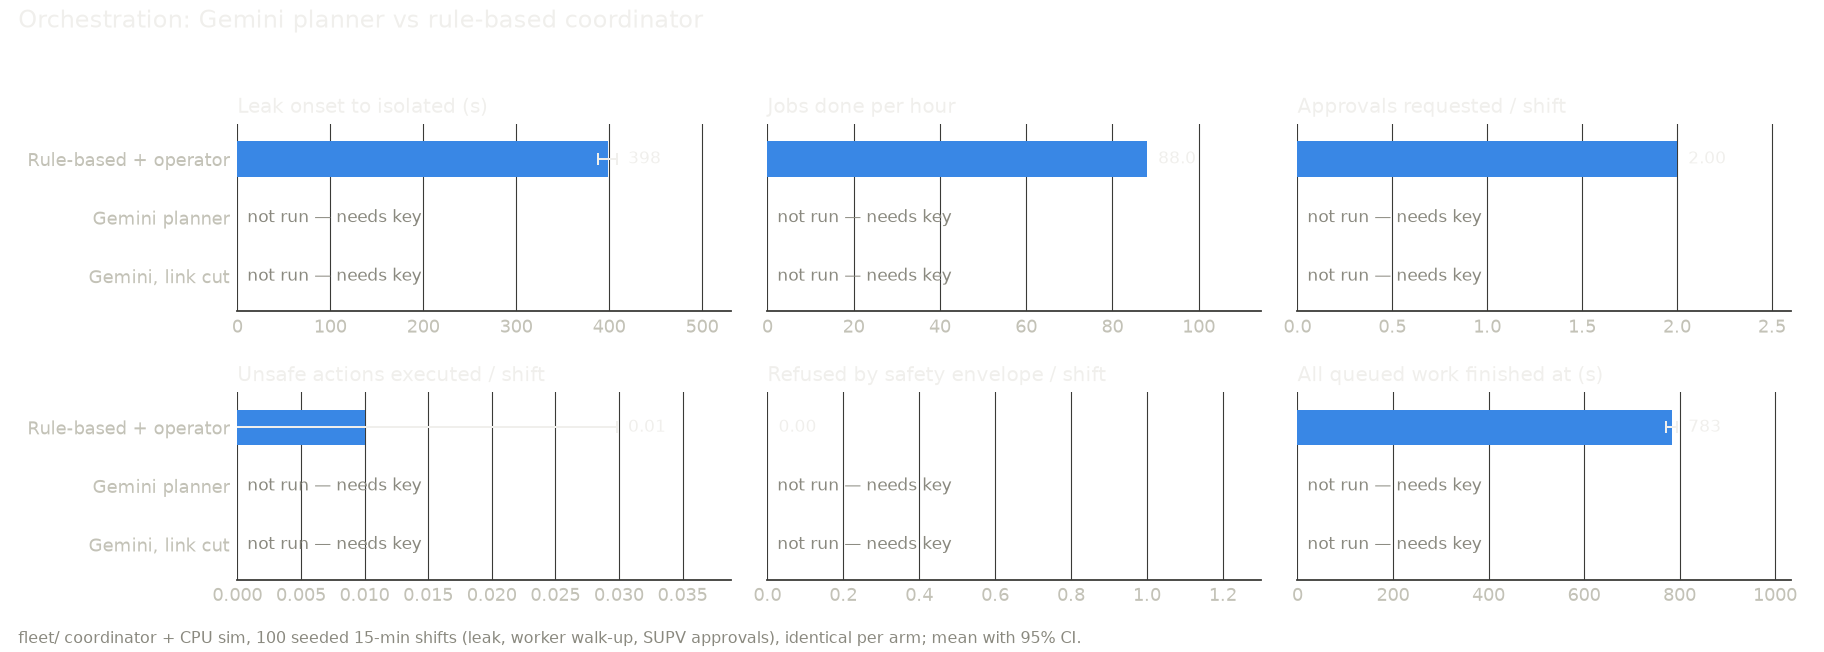
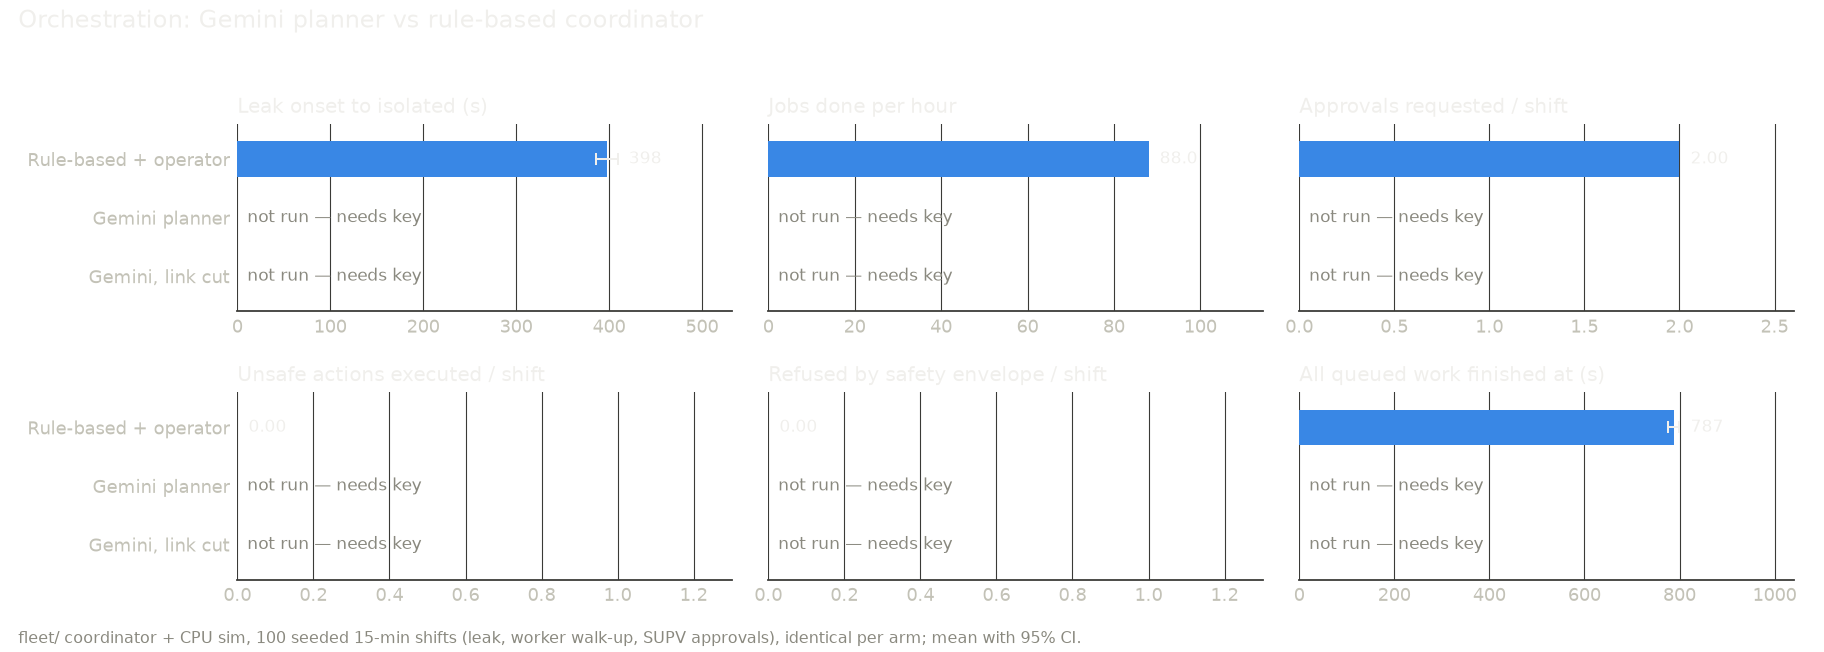
Person pause wins over dispatch: assignment, preemption and release keep a paused robot paused, robots never step into the 3 m radius, resume only past 4 m; orchestration bench rerun (100 shifts, 0 unsafe)

diff --git a/fleet/coordinator.py b/fleet/coordinator.py
@@ -12,6 +12,7 @@ from policy.fleet.assign import INF, assign as hungarian
 from policy.fleet.battery import POWER_W
 
 PERSON_RADIUS_M = 3.0
+PERSON_CLEAR_M = PERSON_RADIUS_M + 1.0
 RESERVE = 0.15
 IDLE_DOCK_BATTERY = 0.3
 RESUME_BATTERY = 0.9
@@ -465,7 +466,7 @@ class Coordinator:
         self.assigned_to[job.id] = rt.robot.id
         self.status[job.id] = JobStatus.ASSIGNED
         self._set_route(rt, self.planner.route(rt.robot, job.position, job.params.get("standoff", 1.0)))
-        rt.state = "MOVING"
+        self._go(rt, "MOVING")
         self.emit("assigned", job.id, rt.robot.id, cost_s=round(cost, 1),
                   bids={rid: round(c, 1) for c, rid in bids}, route_m=round(rt.route.length, 1))
 
@@ -481,7 +482,13 @@ class Coordinator:
                 self.emit("preempted" if "preempt" in why else "requeued", jid, rt.robot.id, reason=why)
         rt.job, rt.result, rt.route, rt.work_left = None, None, None, 0.0
         rt.robot.busy_with = None
-        rt.state = "IDLE"
+        self._go(rt, "IDLE")
+
+    def _go(self, rt: RobotRT, state: str):
+        if rt.state == "PAUSED_PERSON":
+            rt.paused_from = state
+        else:
+            rt.state = state
 
     def report(self, job: Job, robot: Optional[str] = None, event: str = "alarm", **detail) -> JobStatus:
         self.emit(event, job.id, robot, **detail)
@@ -545,12 +552,10 @@ class Coordinator:
         for rt in self.rt.values():
             if rt.state == "FAILED":
                 continue
-            near = [p for p in self.world.people if dist(p, rt.robot.position) < PERSON_RADIUS_M]
+            r_m = PERSON_CLEAR_M if rt.state == "PAUSED_PERSON" else PERSON_RADIUS_M
+            near = self._near(rt.robot.position, r_m)
             if near and rt.state != "PAUSED_PERSON":
-                rt.paused_from = rt.state
-                rt.state = "PAUSED_PERSON"
-                self.emit("person_pause", rt.job, rt.robot.id, distance_m=round(min(
-                    dist(p, rt.robot.position) for p in near), 2))
+                self._pause(rt, near)
             elif not near and rt.state == "PAUSED_PERSON":
                 rt.state = rt.paused_from or "IDLE"
                 self.emit("person_clear", rt.job, rt.robot.id, resume=rt.state)
@@ -565,6 +570,14 @@ class Coordinator:
                           reason="reserve needed to reach the dock" if low else "idle and low: charge while there is time")
                 self._release(rt, requeue=True, why="low battery: robot returns to dock")
                 self._go_dock(rt)
+
+    def _near(self, pos, r_m: float = PERSON_RADIUS_M) -> list:
+        return [p for p in self.world.people if dist(p, pos) < r_m]
+
+    def _pause(self, rt: RobotRT, near: list):
+        rt.paused_from = rt.state
+        rt.state = "PAUSED_PERSON"
+        self.emit("person_pause", rt.job, rt.robot.id, distance_m=round(min(dist(p, rt.robot.position) for p in near), 2))
 
     def _gas_zone(self):
         if not self.leaks():
@@ -583,7 +596,7 @@ class Coordinator:
 
     def _go_dock(self, rt: RobotRT):
         self._set_route(rt, self.planner.route(rt.robot, rt.dock, 0.0))
-        rt.state = "DOCKING"
+        self._go(rt, "DOCKING")
 
     def may_enter(self, rt: RobotRT, segment: str) -> bool:
         if rt.robot.kind != RobotKind.QUADRUPED:
@@ -611,7 +624,14 @@ class Coordinator:
             self._drain(rt, p.idle_w * dt / 3600.0)
             return
         if rt.state in ("MOVING", "WAITING_SEGMENT", "DOCKING"):
+            saved = (r.position, rt.yaw, rt.leg_i, rt.leg_s, rt.holding)
             arrived, wh, moved = self._move(rt, dt)
+            near = self._near(r.position) if moved else []
+            if near:
+                r.position, rt.yaw, rt.leg_i, rt.leg_s, rt.holding = saved
+                self._pause(rt, near)
+                self._drain(rt, p.idle_w * dt / 3600.0)
+                return
             self._drain(rt, wh)
             rt.dist_m += moved
             if rt.state == "WAITING_SEGMENT":

diff --git a/tests/test_fleet_coordinator.py b/tests/test_fleet_coordinator.py
@@ -204,6 +204,68 @@ def test_person_within_radius_pauses_robot():
     assert events(c, "person_pause") and events(c, "person_clear")
 
 
+def _paused(jobs=("j",)):
+    world = World()
+    q = Robot("q1", Q, {"camera"}, (0, 0, 0), speed_mps=1.0)
+    c = Coordinator([q], world, {"look": Exec("look", duration=5)})
+    c.submit(job("j", pos=(20, 0, 0), priority=4, params={"standoff": 0.0}))
+    run(c, 5)
+    world.people = [(q.position[0] + PERSON_RADIUS_M - 0.5, 0, 0)]
+    c.tick()
+    assert c.rt["q1"].state == "PAUSED_PERSON"
+    return c, q, world
+
+
+def test_urgent_preemption_never_moves_a_robot_paused_for_a_person():
+    c, q, world = _paused()
+    held = q.position
+    c.submit(job("urgent", target="b", pos=(-20, 0, 0), priority=1, params={"standoff": 0.0}))
+    run(c, 10)
+    assert c.rt["q1"].state == "PAUSED_PERSON" and q.position == held
+    assert c.rt["q1"].job == "urgent"
+    world.people = []
+    run(c, 60)
+    assert c.status["urgent"] == JobStatus.DONE
+
+
+def test_released_job_while_paused_keeps_robot_paused():
+    c, q, world = _paused()
+    held = q.position
+    c.cancel("j", by="operator", reason="test")
+    assert c.rt["q1"].state == "PAUSED_PERSON"
+    c.submit(job("next", target="b", pos=(-20, 0, 0), params={"standoff": 0.0}))
+    c.assign()
+    assert c.rt["q1"].state == "PAUSED_PERSON"
+    run(c, 10)
+    assert c.rt["q1"].state == "PAUSED_PERSON" and q.position == held
+    world.people = []
+    run(c, 60)
+    assert c.status["next"] == JobStatus.DONE
+
+
+def test_person_at_the_edge_of_the_radius_does_not_release_the_pause():
+    c, q, world = _paused()
+    held = q.position
+    world.people = [(q.position[0] + PERSON_RADIUS_M + 0.2, 0, 0)]
+    run(c, 5)
+    assert c.rt["q1"].state == "PAUSED_PERSON" and q.position == held
+    world.people = [(q.position[0] + PERSON_RADIUS_M + 1.5, 0, 0)]
+    c.tick()
+    assert c.rt["q1"].state != "PAUSED_PERSON"
+
+
+def test_robot_never_steps_into_the_person_radius():
+    world = World()
+    q = Robot("q1", Q, {"camera"}, (0, 0, 0), speed_mps=1.5)
+    c = Coordinator([q], world, {"look": Exec("look", duration=5)})
+    c.submit(job("j", pos=(30, 0, 0), params={"standoff": 0.0}))
+    for k in range(30):
+        world.people = [(min(4.2 + 1.2 * k, 12.0), 0.0, 0.0)]
+        c.tick()
+        assert math.dist(q.position, world.people[0]) >= PERSON_RADIUS_M
+    assert events(c, "person_pause")
+
+
 def test_low_battery_docks_and_requeues():
     q = Robot("q1", Q, {"camera"}, (0, 0, 0), battery=0.95)
     c = Coordinator([q], World(), {"look": Exec("look", duration=500)}, docks={"q1": (0, 0, 0)})

diff --git a/tests/test_bench_orch.py b/tests/test_bench_orch.py
@@ -91,3 +91,8 @@ def test_summary_marks_missing_key_arm():
     assert s["arms"]["planner"]["status"] == "not run — needs key"
     assert s["arms"]["rule"]["leak_isolate_s"]["mean"] == pytest.approx(100.0)
     assert s["arms"]["rule"]["leaks_isolated"] == 1
+
+
+def test_gas_preemption_during_person_pause_is_not_unsafe():
+    r = O.Shift(O.make_shift(2293720157), arm="rule").run()
+    assert r["unsafe_person"] == 0 and r["unsafe_executed"] == 0
